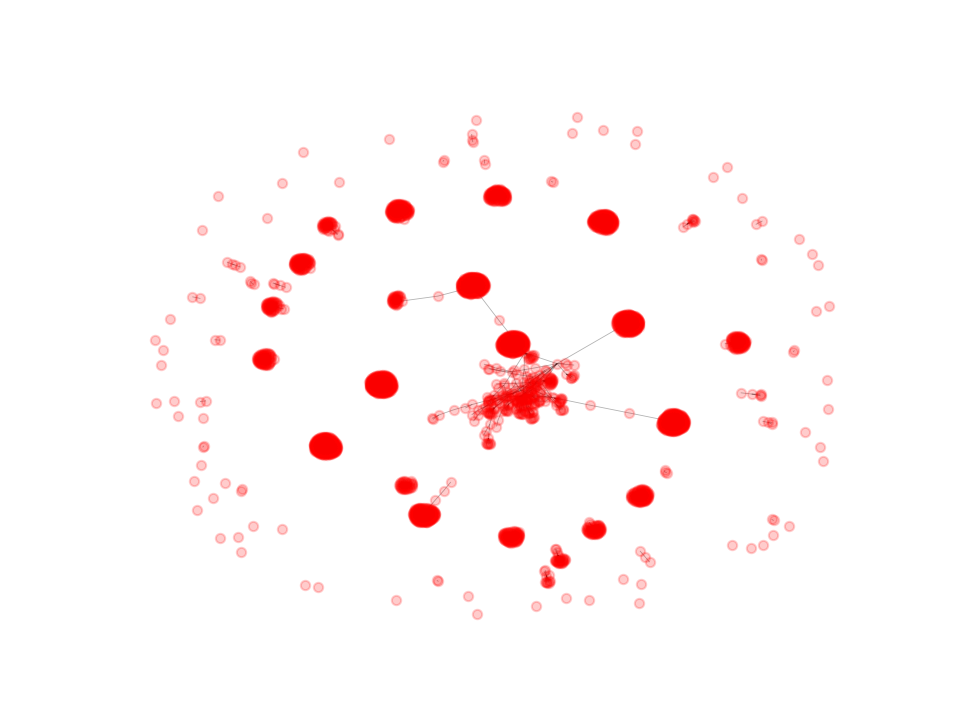
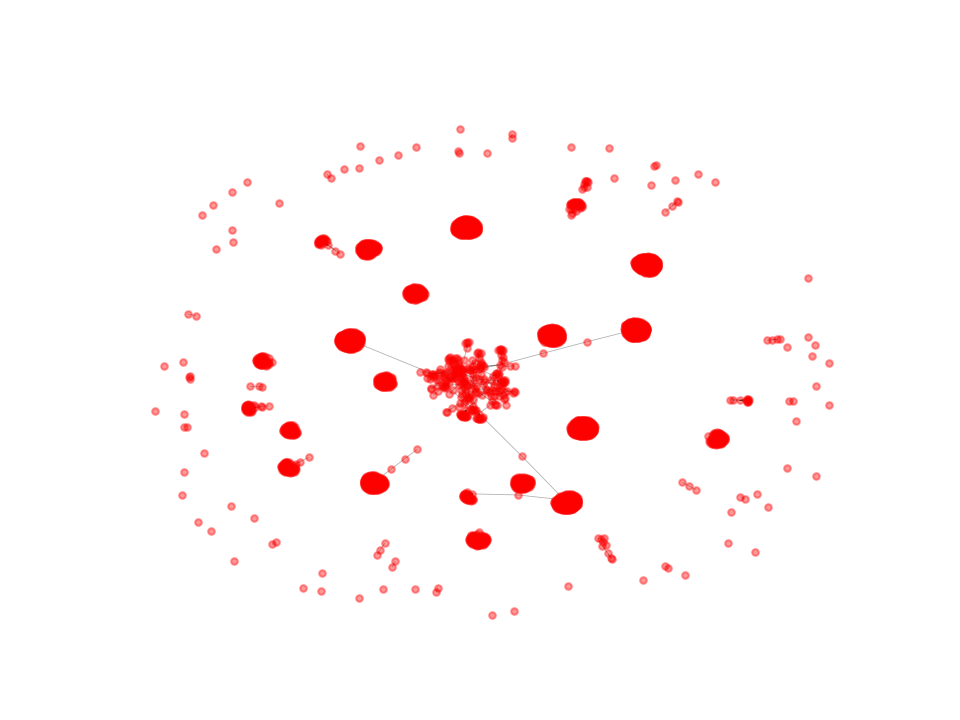
created graph

diff --git a/a4/cluster.py b/a4/cluster.py
@@ -41,7 +41,7 @@ def create_graph(filename):
                 G.add_edge(key, follower)
             elif follower in G and G.has_edge(key, follower) == False and G.has_edge(follower, key) == False:
                 G.add_edge(key, follower)
-    print("\nCreated graph from data in file --> " + filename + "\n")
+    print("\nCreated graph from data in file: " + filename + "\n")
     print("\nGraph Contains : ")
     print("----------------")
     print("\n " + str(len(G.nodes())) + " Nodes")
@@ -57,9 +57,9 @@ def save_graph(G):
     """
     pos = nx.spring_layout(G, scale=2)
     plt.axis('off')
-    nx.draw_networkx_nodes(G, pos, alpha=0.5, node_color='r', node_size=20)
-    nx.draw_networkx_edges(G, pos, width=0.4, alpha=0.5)
-    plt.savefig("Cluster_Folder"+os.path.sep+"Graph.png", dpi=300)  # save as png
+    nx.draw_networkx_nodes(G, pos, alpha=0.4, node_color='r', node_size=10)
+    nx.draw_networkx_edges(G, pos, width=0.4, alpha=0.3)
+    plt.savefig("Cluster_Folder"+os.path.sep+"Graph.png", dpi=150)  # save as png
 
 
 def main():
